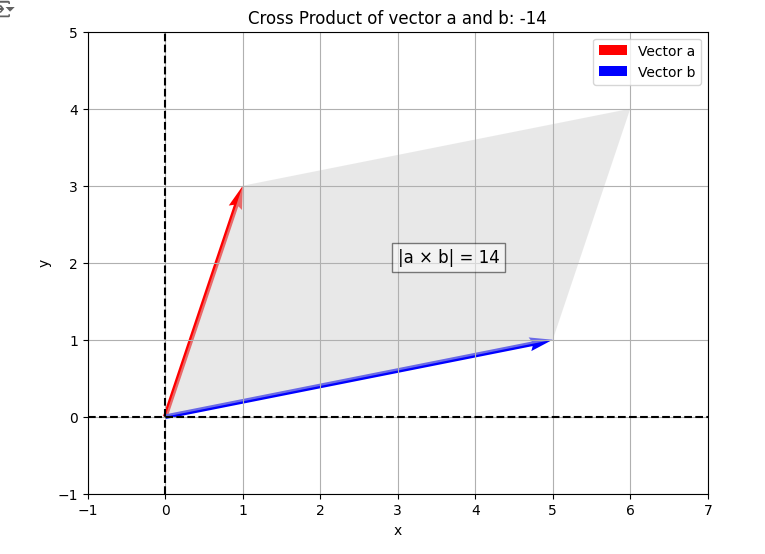
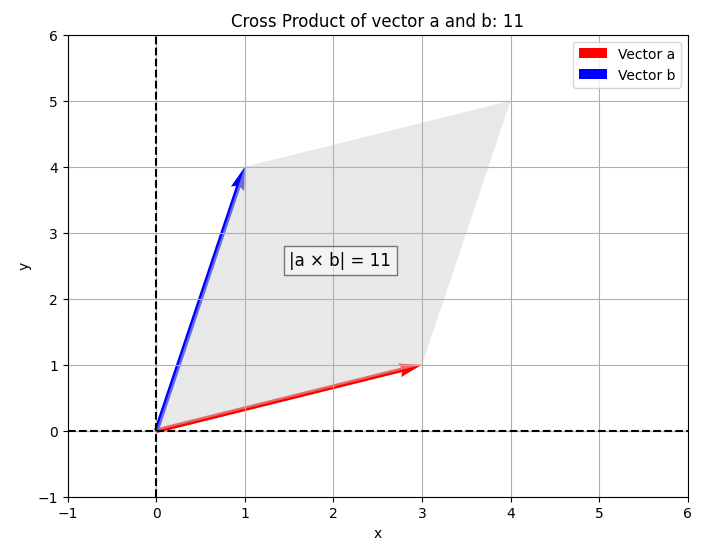
外積のページを完成し、新ページを作りやすく

diff --git a/app/linear_algebra/contents/CrossProductContent.tsx b/app/linear_algebra/contents/CrossProductContent.tsx
@@ -1,9 +1,6 @@
-import Breadcrumb from "@/app/components/Breadcrumb";
 import { metadata } from "@/app/linear_algebra/metadata";
-import { formatDate } from "@/app/components/formatDate";
 import CenteredEquation from "@/app/components/CenteredEquation";
 import { InlineMath } from "react-katex";
-import Image from "next/image";
 import ImageModal from "@/app/components/ImageModal";
 import CustomLink from "@/app/components/CustomLink";
 
@@ -18,32 +15,7 @@ export default function pageContent() {
   const dotmetaData = metadata.dotproduct;
 
   return (
-    <div style={{ padding: "20px" }}>
-      <Breadcrumb
-        items={[
-          { name: "線形代数", href: `/${metaData.topic}` },
-          {
-            name: metaData.title,
-            href: `/${metaData.topic}/${pagename}`,
-          },
-        ]}
-      />
-
-      <Image
-        src={`${imagePath}/thumb.png`}
-        alt={metaData.title}
-        width={100}
-        height={50}
-        className="thumbpage"
-      />
-      <h1 className="title">{metaData.title}</h1>
-
-      <div className="lastUpdated">
-        最終更新日: {formatDate(metaData.lastUpdated)}
-      </div>
-      <p>{metaData.description}</p>
-
-      {/* ページコンテンツ */}
+    <>
       <h2>ベクトル積について</h2>
       <p>
         ベクトル積には、内積（Dot Product または Inner Product）と外積（Cross
@@ -106,6 +78,68 @@ export default function pageContent() {
         \end{align*}"
       />
 
+      <h2>3次元の外積</h2>
+
+      <p>
+        外積は、3次元空間で定義される2つのベクトルから新たなベクトルを生成する演算です。
+        <br />
+        外積の特徴は以下の通りです。
+      </p>
+      <ul>
+        <li>
+          <b>直行</b>
+        </li>
+        <p>
+          生成されるベクトルは、元の2つのベクトル&nbsp;
+          <InlineMath math="\mathbf{a}" />
+          &nbsp;と&nbsp;
+          <InlineMath math="\mathbf{b}" />
+          &nbsp;の両方に垂直（直交）します。
+        </p>
+        <li>
+          <b>右ねじの法則</b>
+        </li>
+        <p>
+          外積の向きは「右ねじの法則」に従って決まります。
+          <br />
+          人差し指を1つ目のベクトル方向にむけ、2つ目のベクトルの方向に回転させたとき、親指が指す方向が外積ベクトルの方向になります。
+        </p>
+      </ul>
+
+      <p>
+        2つのベクトル&nbsp;
+        <InlineMath math="\mathbf{a}" />
+        &nbsp;と&nbsp;
+        <InlineMath math="\mathbf{b}" />
+        &nbsp;をこのように定義します。
+      </p>
+
+      <CenteredEquation
+        equation="\begin{align*}
+        \mathbf{a} = (a_x,a_y,a_z) \notag \\
+        \mathbf{b} = (b_x,b_y,b_z)
+        \end{align*}"
+      />
+
+      <p>この時、外積の計算は以下の行列式で行います。</p>
+      <CenteredEquation
+        equation="\mathbf{a} \times \mathbf{b} = 
+          \begin{vmatrix}
+          \vec{i} & \vec{j} & \vec{k} \\
+          a_x & a_y & a_z \\
+          b_x & b_y & b_z
+          \end{vmatrix}"
+      />
+      <p>
+        ここで&nbsp;
+        <InlineMath math="\vec{i} , \vec{j} , \vec{k}" />
+        &nbsp;はそれぞれx軸、y軸、z軸の単位ベクトルを表しています。
+        <br />
+        この式を計算すると以下のようになります。行列式を扱えない方はこちらを覚えましょう。
+      </p>
+
+      <CenteredEquation equation="\mathbf{a} \times \mathbf{b} = (a_y b_z - a_z b_y , a_z b_x - a_x b_z , a_x b_y - a_y b_x)" />
+
       <h2>具体例 - 2次元の外積</h2>
 
       <p>
@@ -118,8 +152,8 @@ export default function pageContent() {
 
       <CenteredEquation
         equation="\begin{align*}
-        \mathbf{a} &= \begin{bmatrix} 1 \\ 3 \end{bmatrix} \notag \\
-        \mathbf{b} &= \begin{bmatrix} 5 \\ 1 \end{bmatrix}
+        \mathbf{a} &= \begin{bmatrix} 3 \\ 1 \end{bmatrix} \notag \\
+        \mathbf{b} &= \begin{bmatrix} 1 \\ 4 \end{bmatrix}
         \end{align*}
         "
       />
@@ -154,7 +188,7 @@ export default function pageContent() {
         まず初めに外積を式で表すと以下のようになります。
       </p>
 
-      <CenteredEquation equation="\mathbf{a}\times\mathbf{b}=1 \cdot 1 - 3 \cdot 5 = 1 - 15 = -14" />
+      <CenteredEquation equation="\mathbf{a}\times\mathbf{b}=5 \cdot 3 - 1 \cdot 1 = 15 - 1 = 14" />
 
       <p>
         これらのベクトルの外積をグラフで表すと以下のようになります。
@@ -181,50 +215,9 @@ export default function pageContent() {
       />
 
       <p>
-        この結果、外積は -14 となります。この値はベクトルの方向に垂直な（つまり、2次元空間の外に向かう）z軸方向の大きさを示しています。
+        この結果、外積は -14
+        となります。この値はベクトルの方向に垂直な（つまり、2次元空間の外に向かう）z軸方向の大きさを示しています。
       </p>
-
-      <h2>3次元の外積</h2>
-
-      <p>
-        外積は、3次元空間で定義される2つのベクトルから新たなベクトルを生成する演算です。
-        <br />
-        外積の結果として得られるベクトルは、2つのベクトルが生成する平面に垂直です。大きさは2つのベクトルが生成する面積と等しいです。
-        <br />
-        外積の特徴は以下の通りです。
-      </p>
-      <ul>
-        <li>
-          <b>垂直性</b>
-        </li>
-        <p>
-          生成されるベクトルは、元の2つのベクトル&nbsp;
-          <InlineMath math="\mathbf{a}" />
-          &nbsp;と&nbsp;
-          <InlineMath math="\mathbf{b}" />
-          &nbsp;の両方に垂直（直交）します。
-        </p>
-        <li>
-          <b>大きさ</b>
-        </li>
-        <p>
-          外積ベクトルの大きさは、元のベクトルの大きさとそれらが成す角度&nbsp;
-          <InlineMath math="\mathbf{\theta}" />
-          &nbsp;の正弦（sin）に比例します。<br />
-          &nbsp;
-          <InlineMath math="\mathbf{a}\times\mathbf{b} =\|\mathbf{a}\|\|\mathbf{b}\|\sin{\theta}" />
-          &nbsp;
-        </p>
-        <li>
-          <b>右手系</b>
-        </li>
-        <p>
-          外積の向きは「右ねじの法則」に従って決まります。<br />
-          人差し指を
-
-          の方向に回転させたとき、親指が指す方向が外積ベクトルの方向になります。
-        </p>
-      </ul>
-    </div>
+    </>
   );
 }

diff --git a/app/linear_algebra/[slug]/page.tsx b/app/linear_algebra/[slug]/page.tsx
@@ -1,9 +1,13 @@
 // app/linear_algebra/[slug]/page.tsx
 import { notFound } from "next/navigation";
+import Breadcrumb from "@/app/components/Breadcrumb";
 import { metadata as linearAlgebraMetadata } from "@/app/linear_algebra/metadata";
 import DotProductContent from "@/app/linear_algebra/contents/DotProductContent";
 import CrossProductContent from "@/app/linear_algebra/contents/CrossProductContent";
+import VectorContent from "@/app/linear_algebra/contents/VectorContent";
 import GoogleForm from "@/app/components/GoogleForm";
+import Image from "next/image";
+import { formatDate } from "@/app/components/formatDate";
 
 interface PageProps {
   params: Promise<{
@@ -23,6 +27,7 @@ export async function generateStaticParams() {
 const contentComponents = {
   dotproduct: DotProductContent,
   crossproduct: CrossProductContent,
+  vector: VectorContent,
   // 他のコンポーネントを追加
 };
 
@@ -66,6 +71,8 @@ export default async function Page(props: PageProps) {
   const params = await props.params;
   const ContentComponent =
     contentComponents[params.slug as keyof typeof contentComponents];
+  const metaData = linearAlgebraMetadata[params.slug];
+  const basePath = process.env.NEXT_PUBLIC_BASE_PATH || "";
 
   if (!ContentComponent) {
     notFound();
@@ -73,12 +80,39 @@ export default async function Page(props: PageProps) {
 
   return (
     <>
-      <ContentComponent />
-      <hr />
-      <div style={{ margin: "20px" }}>
-        <h1>コメントフォーム</h1>
-        <div style={{ margin: "0px 10px" }}>
-          <GoogleForm currentPath={`/linear_algebra/${params.slug}`} />
+      <div style={{ padding: "20px" }}>
+        <Breadcrumb
+          items={[
+            { name: "線形代数", href: `/${metaData.topic}` },
+            {
+              name: metaData.title,
+              href: `/${metaData.topic}/${params.slug}`,
+            },
+          ]}
+        />
+
+        <Image
+          src={`${basePath}/${metaData.topic}/${params.slug}/thumb.png`}
+          alt={metaData.title}
+          width={100}
+          height={50}
+          className="thumbpage"
+        />
+        <h1 className="title">{metaData.title}</h1>
+
+        <div className="lastUpdated">
+          最終更新日: {formatDate(metaData.lastUpdated)}
+        </div>
+        <p>{metaData.description}</p>
+
+        {/* ページコンテンツ */}
+        <ContentComponent />
+        <hr />
+        <div style={{ margin: "20px" }}>
+          <h1>コメントフォーム</h1>
+          <div style={{ margin: "0px 10px" }}>
+            <GoogleForm currentPath={`/linear_algebra/${params.slug}`} />
+          </div>
         </div>
       </div>
     </>

diff --git a/app/linear_algebra/contents/DotProductContent.tsx b/app/linear_algebra/contents/DotProductContent.tsx
@@ -1,9 +1,6 @@
-import Breadcrumb from "@/app/components/Breadcrumb";
 import { metadata } from "@/app/linear_algebra/metadata";
-import { formatDate } from "@/app/components/formatDate";
 import CenteredEquation from "@/app/components/CenteredEquation";
 import { InlineMath } from "react-katex";
-import Image from "next/image";
 import ImageModal from "@/app/components/ImageModal";
 import CustomLink from "@/app/components/CustomLink";
 
@@ -18,32 +15,7 @@ export default function pageContent() {
   const crossmetaData = metadata.crossproduct;
 
   return (
-    <div style={{ padding: "20px" }}>
-      <Breadcrumb
-        items={[
-          { name: "線形代数", href: `/${metaData.topic}` },
-          {
-            name: metaData.title,
-            href: `/${metaData.topic}/${pagename}`,
-          },
-        ]}
-      />
-
-      <Image
-        src={`${imagePath}/thumb.png`}
-        alt={metaData.title}
-        width={100}
-        height={50}
-        className="thumbpage"
-      />
-      <h1 className="title">{metaData.title}</h1>
-
-      <div className="lastUpdated">
-        最終更新日: {formatDate(metaData.lastUpdated)}
-      </div>
-      <p>{metaData.description}</p>
-
-      {/* ページコンテンツ */}
+    <>
       <h2>ベクトル積について</h2>
       <p>
         ベクトル積には、内積（Dot Product または Inner Product）と外積（Cross
@@ -226,6 +198,6 @@ export default function pageContent() {
           &nbsp;のノルムの積を意味します。
         </p>
       </details>
-    </div>
+    </>
   );
 }

diff --git a/app/linear_algebra/metadata.ts b/app/linear_algebra/metadata.ts
@@ -7,7 +7,7 @@ export const metadata: MetadataCollection = {
     tabtitle: `内積とは - ${siteTitle}`,
     description:
       "内積は、ベクトル同士の積の一種で、ベクトルの方向を計算する際などに用いられます。",
-    lastUpdated: "2024-11-22",
+    lastUpdated: "2024-11-26",
     topic: "linear_algebra",
   },
   crossproduct: {
@@ -15,7 +15,15 @@ export const metadata: MetadataCollection = {
     tabtitle: `外積とは - ${siteTitle}`,
     description:
       "外積は、ベクトル同士の積の一種で、ベクトルに垂直なベクトルを計算するために使用されます。",
-    lastUpdated: "2024-11-25",
+    lastUpdated: "2024-11-26",
+    topic: "linear_algebra",
+  },
+  vector: {
+    title: "ベクトルとは",
+    tabtitle: `ベクトルとは - ${siteTitle}`,
+    description:
+      "ベクトルは、向きと大きさを持つ量のことで、線形代数の基本的な概念になります。",
+    lastUpdated: "2024-11-26",
     topic: "linear_algebra",
   },
   // 他のトピックもここに追加できます

diff --git a/app/linear_algebra/contents/VectorContent.tsx b/app/linear_algebra/contents/VectorContent.tsx
@@ -1,0 +1,20 @@
+import { metadata } from "@/app/linear_algebra/metadata";
+//import CenteredEquation from "@/app/components/CenteredEquation";
+//import { InlineMath } from "react-katex";
+//import ImageModal from "@/app/components/ImageModal";
+//import CustomLink from "@/app/components/CustomLink";
+
+export default function pageContent() {
+  const pagename: string = "vector"; //ここを変更
+
+  const metaData = metadata[pagename];
+  const basePath = process.env.NEXT_PUBLIC_BASE_PATH || "";
+  const imagePath = `${basePath}/${metaData.topic}/${pagename}`;
+  //const notePath = `https://colab.research.google.com/github/jeonglabo/nextjs/blob/main/notebook/${metaData.topic}/${pagename}`;
+
+  return (
+    <>
+      <h2>ベクトルについて</h2>
+    </>
+  );
+}

diff --git a/app/README.md b/app/README.md
@@ -6,8 +6,10 @@
 
 〇新しいページを作るとき
 
-1.public/[directory]/[pages]/ にサムネイル画像 "thumb.jpg" を追加する。
+1.public/(directory)/(pages)/ にサムネイル画像 "thumb.jpg" を追加する。
 
-2.app/[directory]/metadata にメタデータを追加する。
+2.app/(directory)/metadata にメタデータを追加する。
 
 3.app/[slug]/page.tsx にインポートを追加する。
+
+4.app/[slug]/page.tsx の contentComponents を追加する
